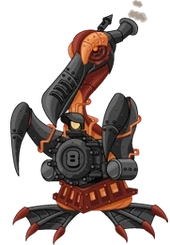
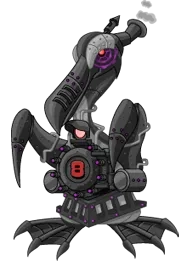
Fix some bugs
- Fixed Dorux type
- Fixed Dark Aukamotive artwork
- Improved Dorux thumbnail
- Added Foil Vhisp and Foil Vexie

diff --git a/src/components/HelpWindow.jsx b/src/components/HelpWindow.jsx
@@ -48,6 +48,16 @@ export default function HelpWindow({setHelpActive}) {
                 {changelog &&
                 <div className="changelog-container">
                     <div className="changelog-version">
+                        <h2>v0.0.5</h2>
+                        <hr />
+                        <ul>
+                            <li>Fixed Dorux type</li>
+                            <li>Fixed Dark Aukamotive artwork</li>
+                            <li>Improved Dorux thumbnail</li>
+                            <li>Added Foil Vhisp and Foil Vexie</li>
+                        </ul>
+                    </div>
+                    <div className="changelog-version">
                         <h2>v0.0.4</h2>
                         <hr />
                         <ul>
